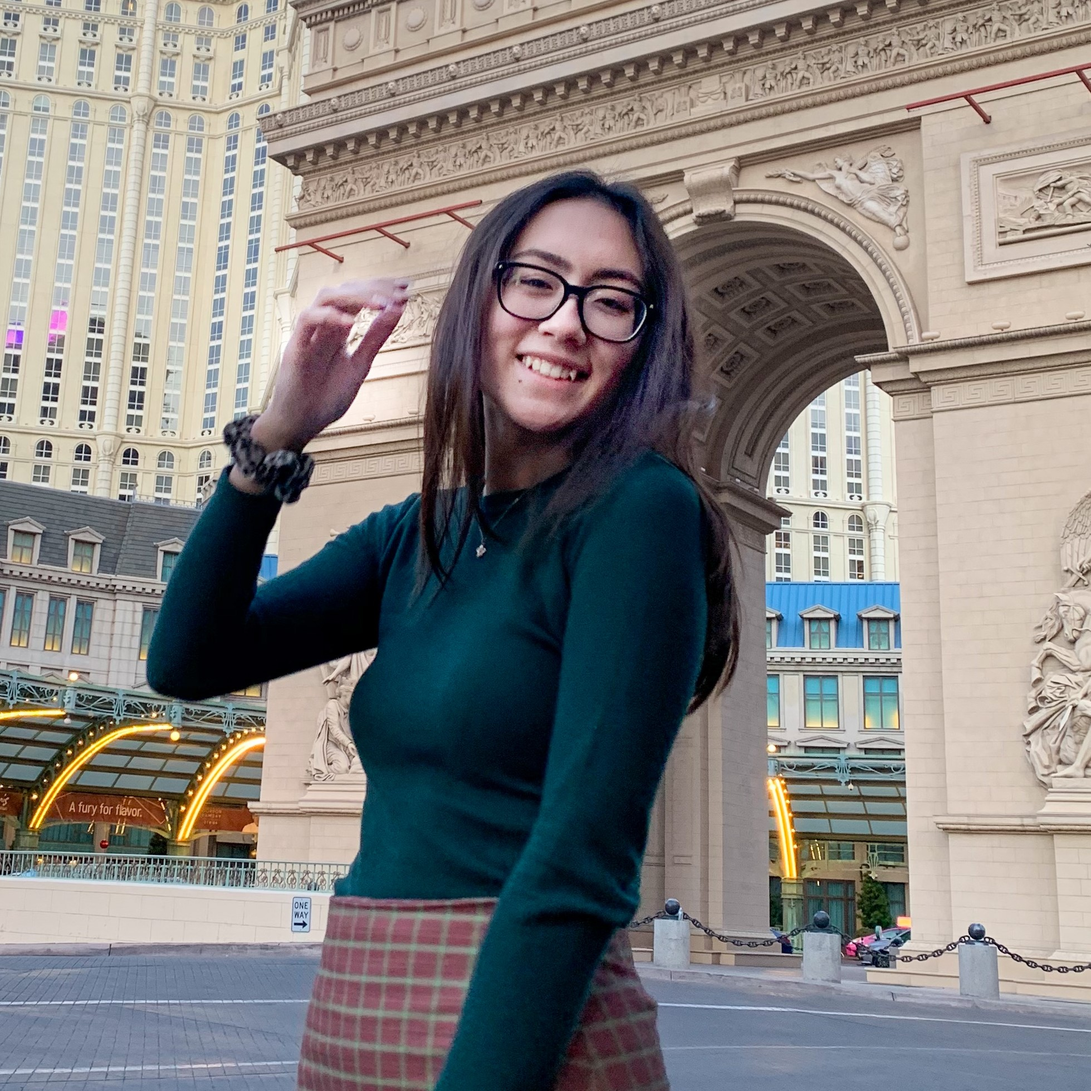
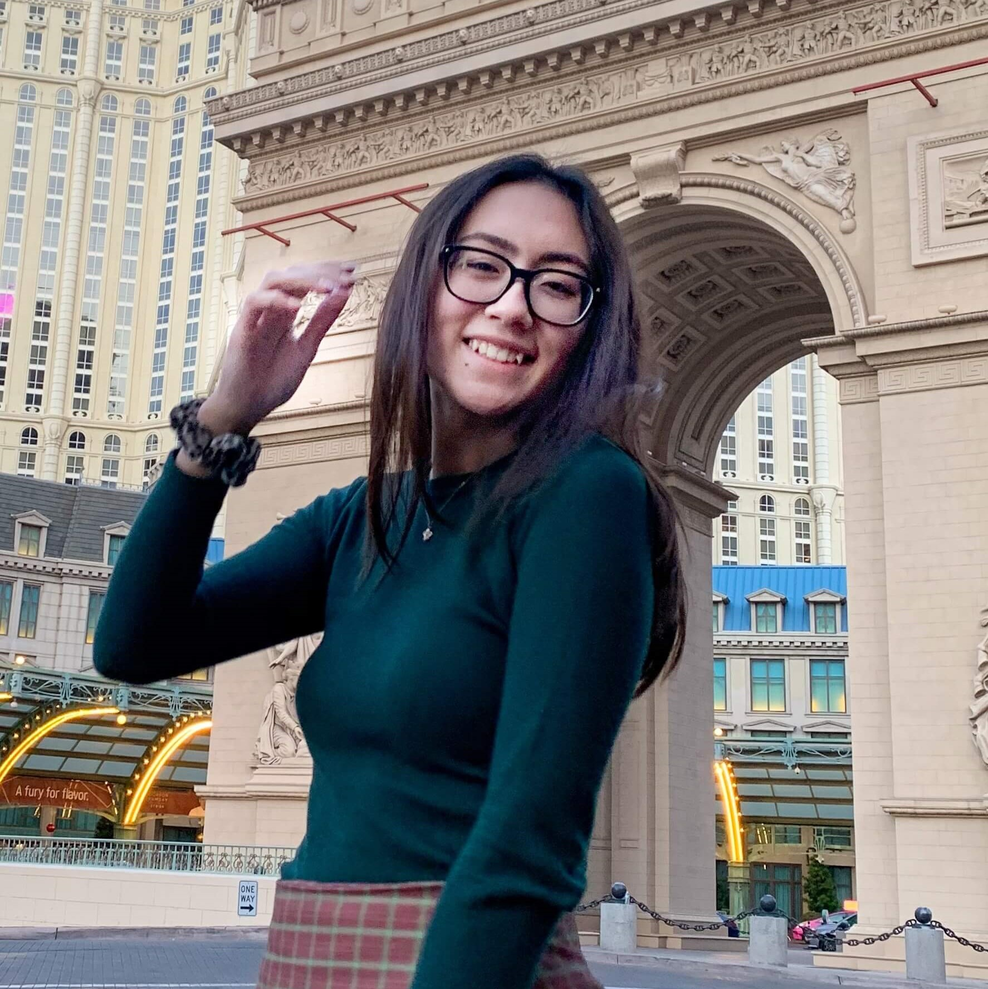
pic

diff --git a/_pages/party.md b/_pages/party.md
@@ -10,7 +10,7 @@ permalink: /party/
 
 <div class="party-container">
     <div class="img-flex-container">
-        <img class="img-flex" style="border-radius: 50%" src="../assets/images/rachelh.png" alt="Rachel Handran">
+        <img class="img-flex" style="border-radius: 50%" src="../assets/images/rachelh.jpg" alt="Rachel Handran">
         <div style="flex: 3; min-width: 250px">
             <h3>Rachel Handran - <i>Maid of Honor</i></h3>
             <p>Hi! My name is Rachel, and I’m Rebekah’s sister. We’ve grown up together, and she’s always been my role model. There are so many countless memories we’ve made over the years, including our trips to San Francisco and Monterey. Fun fact: I fostered kittens and have 2 cats!</p>
